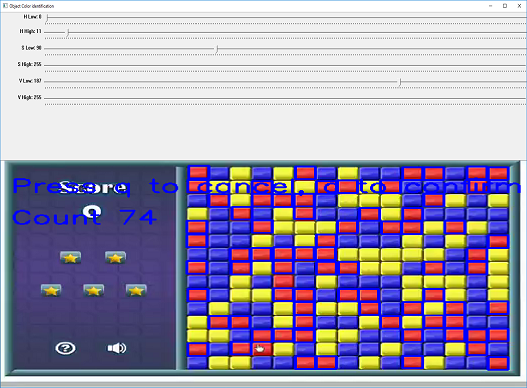
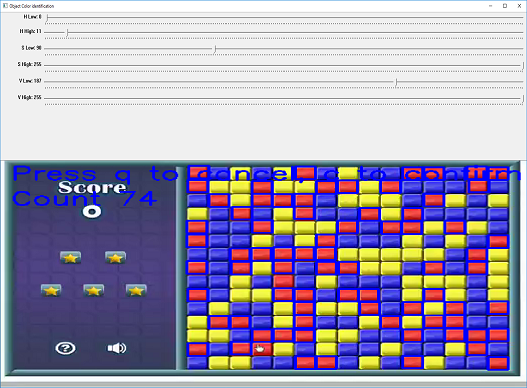
Update

diff --git a/src/color_tracking.py b/src/color_tracking.py
@@ -51,8 +51,8 @@ def get_color_of_object(image, hsv_image):
 #            cv2.rectangle(image_copy,(x,y),(x+w,y+h),(255,0,0),2)
         image_copy,count = detect_object_single_frame(image,res, point, prev_point)
         font = cv2.FONT_HERSHEY_SIMPLEX
-        cv2.putText(image_copy,'Press q to cancel, c to confirm',(10,50), font, 1,(255,0,0),2)
-        cv2.putText(image_copy,'Count %s' %count,(10,100), font, 1,(255,0,0),2)
+        cv2.putText(image_copy,'Press q to cancel, c to confirm',(10,30), font, 1,(255,0,0),2)
+        cv2.putText(image_copy,'Count %s' %count,(10,70), font, 1,(255,0,0),2)
         cv2.imshow(win_name, image_copy)
         k = cv2.waitKey(5) & 0xFF
         if k == ord('q'):
